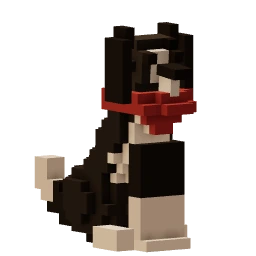
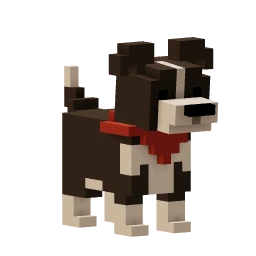
The sheepdog, from Brian's six-view sheet: standing, cell for cell
Claude-Session: https://claude.ai/code/session_011o9Mj2HTe3YpgbKboLBwkK

diff --git a/src/skin/voxel/characters.ts b/src/skin/voxel/characters.ts
@@ -1,6 +1,6 @@
 import { BufferGeometry } from 'three';
 import { buildGeometry } from './mesher';
-import { IRIS, PUPIL, T, WHITE, WOLF_EYE } from './palette';
+import { T, WHITE, WOLF_EYE } from './palette';
 import { shade, shadeRaw } from './paint';
 import type { Tone } from './palette';
 import { box, ellipsoid, Grid, hash3, helix, line, norm, ring, rng, taperedBox } from './primitives';
@@ -112,71 +112,82 @@ export function wolfEyes(): BufferGeometry {
 export interface SheepdogModel { body: Part; head: Part; tail: Part; ears: [Part, Part]; legs: [Part, Part, Part, Part] }
 let dog: SheepdogModel | null = null;
 
-/** Black-and-white collie with a red bandana, ~0.8 m long, built sitting upright; front is +z. */
+/**
+ * The sheepdog, cell for cell from Brian's six-view sheet (2026-11-23): a charcoal collie standing four-square, 7 cells
+ * wide, a white blaze, muzzle, chest, socks and tail tip, a red bandana knotted at the nape with its point on the chest,
+ * ears up and folded over at the tips, and the tail curling up behind. Cells are CHAR (0.04 m); front is +z.
+ */
 export function sheepdogModel(): SheepdogModel {
   if (dog) return dog;
-  const black = tone(T.face, 31), white = tone(T.wool, 33);
-  const above0: (p: Paint) => Paint = (p) => (x, y, z) => (y < 0 ? null : p(x, y, z));
-  const coat: Paint = (x, y, z) => {
-    const Y = y * s, axis = -0.1 + 0.2 * Math.min(1, Math.max(0, (Y - 0.2) / 0.3));
-    return Y > 0.2 && z * s > axis + 0.05 ? white(x, y, z) : black(x, y, z);
+  const COAT = '#484B50', WHITE_FUR = '#ECEBE6', INK = '#080808', MOUTH = '#9C9B97', BANDANA = '#C8321F';
+  const fill = (g: Grid, [x0, x1]: [number, number], [y0, y1]: [number, number], [z0, z1]: [number, number], hex: string) => {
+    for (let x = x0; x <= x1; x++) for (let y = y0; y <= y1; y++) for (let z = z0; z <= z1; z++) g.set(x, y, z, shade(hex));
   };
+  const paint = (g: Grid, x: number, y: number, z: number, hex: string) => { if (g.has(x, y, z)) g.set(x, y, z, shade(hex)); };
 
+  // Body: rows 5 to 11 over the legs, the rump at z 0, the chest at z 11.
   const body = new Grid(s);
-  ellipsoid(body, [0, 0.16, -0.12], [0.16, 0.15, 0.18], above0(coat), 0.06, 35);
-  for (let i = 0; i <= 5; i++) {
-    const t = i / 5;
-    ellipsoid(body, [0, 0.2 + 0.3 * t, -0.1 + 0.2 * t], [0.13 - 0.02 * t, 0.12, 0.12 - 0.02 * t], coat, 0.05, 37);
+  fill(body, [-3, 3], [5, 11], [0, 11], COAT);
+  for (let y = 5; y <= 10; y++) for (let x = -2; x <= 2; x++) { // the white chest, narrower low down, wrapping one cell round
+    if (y <= 7 && Math.abs(x) === 2) continue;
+    paint(body, x, y, 11, WHITE_FUR); paint(body, x, y, 10, WHITE_FUR);
   }
-  belly(body);
-  const red = tone([RED, T.collar[1], T.collar[2]], 39);
-  ring(body, [0, 0.54, 0.1], 0.13, 0.13, 0.06, red);
-  for (let r = 0; r < 4; r++) for (let x = -3 + r; x <= 2 - r; x++) { // the bandana's point on the chest
-    const y = body.i(0.52) - r, z = frontZ(body, x, y);
-    if (z !== null) body.set(x, y, z + 1, red(x, y, z + 1)!);
-  }
+  for (const x of [-3, 3]) for (let y = 7; y <= 9; y++) for (let z = 10; z <= 11; z++) paint(body, x, y, z, WHITE_FUR); // the chest's white, seen from the side
+  for (const x of [-3, 3]) for (let z = 4; z <= 6; z++) paint(body, x, 5, z, WHITE_FUR); // a white flash under the belly
+  for (let z = 4; z <= 6; z++) for (let x = -2; x <= 2; x++) paint(body, x, 5, z, WHITE_FUR);
+  // The bandana: a band round the neck, its knot at the nape and its point down the chest (8, 5, 3 and 1 across).
+  for (let x = -3; x <= 3; x++) body.set(x, 11, 12, shade(BANDANA));
+  for (const x of [-4, 4]) for (let z = 8; z <= 12; z++) body.set(x, 11, z, shade(BANDANA));
+  for (let x = -3; x <= 3; x++) body.set(x, 12, 8, shade(BANDANA));
+  for (const [x, y] of [[-1, 13], [1, 13], [0, 12]] as const) body.set(x, y, 7, shade(BANDANA));
+  for (let y = 10, w = 2; w >= 0; y--, w--) for (let x = -w; x <= w; x++) body.set(x, y, 12, shade(BANDANA));
 
-  const headPivot: V3 = [0, 0.58, 0.1];
+  // Head: rows 12 to 17, z 9 to 14, its top row one in from each side; the white blaze runs up its middle and over.
+  const headPivot: V3 = [0, 12 * s, 11 * s];
   const head = new Grid(s);
-  ellipsoid(head, [0, 0.7, 0.12], [0.11, 0.1, 0.1], (x, y, z) => ((x === -1 || x === 0) && z * s > 0.14 ? white(x, y, z) : black(x, y, z)));
-  box(head, [-0.06, 0.6, 0.14], [0.06, 0.68, 0.32], white, 1); // muzzle, from z 0.14: the chamfer took its back row, which left it off the head
-  step(head, 1);
-  box(head, [-0.04, 0.66, 0.24], [0.04, 0.7, 0.34], tone(T.hoof, 41)); // nose, from z 0.24 (cell 6) so it sits on the muzzle's top
-  onFront(head, head, [[1, 18], [-2, 18]], IRIS);
-  head.set(1, 19, (frontZ(head, 1, 18) ?? 0) - 1, shade(PUPIL));
+  fill(head, [-3, 3], [12, 16], [9, 14], COAT);
+  fill(head, [-2, 2], [17, 17], [9, 14], COAT);
+  for (let y = 15; y <= 17; y++) paint(head, 0, y, 14, WHITE_FUR);
+  for (let z = 11; z <= 14; z++) paint(head, 0, 17, z, WHITE_FUR);
+  for (const x of [-2, 2]) head.set(x, 15, 14, shadeRaw(INK)); // eyes, raw: `shade` lifts them to the palette's floor, the coat's grey
+  // Muzzle: 5 across, the lowest row a cell shorter; the nose 3 across on its top front, the mouth's line under it.
+  fill(head, [-2, 2], [13, 14], [15, 17], WHITE_FUR);
+  fill(head, [-2, 2], [12, 12], [15, 16], WHITE_FUR);
+  for (let x = -1; x <= 1; x++) head.set(x, 14, 18, shadeRaw(INK)); // the nose stands out a cell, so it shows from the side
+  head.set(0, 13, 17, shade(MOUTH));
 
+  // Ears: up from the head's outer columns, folded over outward at the tips.
   const ears = ([-1, 1] as const).map((sx) => {
     const g = new Grid(s);
-    const x0 = sx > 0 ? 0.12 : -0.16;
-    box(g, [x0, 0.58, 0.06], [x0 + 0.04, 0.8, 0.18], black);
-    box(g, [sx > 0 ? 0.08 : -0.12, 0.76, 0.06], [sx > 0 ? 0.12 : -0.08, 0.82, 0.16], black); // fold over the skull
-    step(g, -1);
-    return part(g, [sx * 0.12, 0.8, 0.12]);
+    for (const [x, y] of [[3, 17], [5, 17], [2, 18], [3, 18], [4, 18], [5, 18], [2, 19], [3, 19], [4, 19]] as const) fill(g, [sx * x, sx * x], [y, y], [11, 12], COAT);
+    { const cells = [...g.map.values()]; g.map.clear(); for (const v of cells) g.set(v.x, v.y - 1, v.z, v.c); } // down with the head (below)
+    return part(g, [sx * 3 * s, 16 * s, 11.5 * s]);
   }) as [Part, Part];
 
-  const tailPivot: V3 = [0, 0.1, -0.28];
+  // Tail: three across at the root, stepping up and back, one across at the top with a white tip.
+  const tailPivot: V3 = [0, 10 * s, 0];
   const tail = new Grid(s);
-  for (let i = 0; i <= 6; i++) {
-    const t = i / 6;
-    ellipsoid(tail, [0, 0.08 + 0.14 * t * t, -0.3 - 0.22 * t], [0.05, 0.05, 0.06], t > 0.75 ? white : black, 0.1, 43 + i);
-  }
-  step(tail, -1);
+  fill(tail, [-1, 1], [9, 11], [-1, -1], COAT);
+  fill(tail, [-1, 1], [10, 12], [-2, -2], COAT);
+  fill(tail, [0, 0], [11, 13], [-3, -3], COAT);
+  fill(tail, [0, 0], [12, 13], [-4, -4], COAT);
+  fill(tail, [0, 0], [14, 15], [-4, -4], WHITE_FUR);
 
-  const legPaint: Paint = (x, y, z) => (y * s < 0.2 ? white(x, y, z) : black(x, y, z));
-  const front = ([-0.06, 0.06] as const).map((lx) => {
+  // Legs: 2 by 2, white socks three cells high; the hind legs widen into the haunch.
+  const leg = (x0: number, z0: number, hind: boolean) => {
     const g = new Grid(s);
-    box(g, [lx - 0.04, 0.04, 0.1], [lx + 0.04, 0.4, 0.18], legPaint);
-    step(g, -1); // the leg, before its foot is added
-    box(g, [lx - 0.04, 0, 0.1], [lx + 0.04, 0.04, 0.22], white);
-    return part(g, [lx, 0.4, 0.14]);
-  });
-  const back = ([-0.12, 0.12] as const).map((lx) => {
-    const g = new Grid(s);
-    box(g, [lx - 0.04, 0, 0], [lx + 0.04, 0.06, 0.14], white);
-    return part(g, [lx, 0.06, 0]);
-  });
+    fill(g, [x0, x0 + 1], [0, 2], [z0, z0 + 1], WHITE_FUR);
+    fill(g, [x0, x0 + 1], [0, 0], [z0 + 2, z0 + 2], WHITE_FUR); // the paw, a cell forward
+    fill(g, [x0, x0 + 1], [3, 3], [z0, z0 + 1], COAT);
+    if (hind) fill(g, [x0, x0 + 1], [3, 3], [z0 + 2, z0 + 3], COAT);
+    return part(g, [(x0 + 1) * s, 4 * s, (z0 + 1) * s]);
+  };
+  const legs = [leg(-3, 9, false), leg(2, 9, false), leg(-3, 0, true), leg(2, 0, true)] as [Part, Part, Part, Part];
 
-  dog = { body: part(body, [0, 0.3, 0]), head: part(head, headPivot), tail: part(tail, tailPivot), ears, legs: [front[0], front[1], back[0], back[1]] };
+  // Legs four cells high, as the sheet's stocky dog: everything above them was laid out on five, so it comes down one.
+  for (const g of [body, head, tail]) { const cells = [...g.map.values()]; g.map.clear(); for (const v of cells) g.set(v.x, v.y - 1, v.z, v.c); }
+  const down = (p: V3): V3 => [p[0], p[1] - s, p[2]];
+  dog = { body: part(body, [0, 7 * s, 6 * s]), head: part(head, down(headPivot)), tail: part(tail, down(tailPivot)), ears, legs };
   return dog;
 }
 

diff --git a/src/skin/table/places.tsx b/src/skin/table/places.tsx
@@ -49,10 +49,10 @@ function StreakPosts({ days }: { days: boolean[] }) {
 }
 
 /**
- * The tutorial's guide: a sheepdog sitting by the back door, wagging, pointing at the heap with its nose. Home sits the
+ * The tutorial's guide: a sheepdog standing by the back door, wagging, looking at the heap. Home stands the
  * same dog out in the pasture, minding the flock (`at`, `yaw`, `scale`).
  */
-export function Sheepdog({ reduced, at = [2.25, 0, BARN.maxZ - 1.2], yaw = Math.PI + 0.6, scale = 1 }: { reduced: boolean; at?: readonly [number, number, number]; yaw?: number; scale?: number }) {
+export function Sheepdog({ reduced, at = [2.0, 0, BARN.maxZ - 1.2], yaw = Math.PI + 0.6, scale = 1 }: { reduced: boolean; at?: readonly [number, number, number]; yaw?: number; scale?: number }) {
   const m = useMemo(() => sheepdogModel(), []);
   const mat = useMemo(() => withRoundedEdges(new MeshLambertMaterial({ vertexColors: true })), []);
   const tail = useRef<Mesh>(null);
@@ -62,14 +62,16 @@ export function Sheepdog({ reduced, at = [2.25, 0, BARN.maxZ - 1.2], yaw = Math.
     if (reduced) return;
     const t = clock.elapsedTime;
     if (tail.current) tail.current.rotation.y = Math.sin(t * 9) * 0.5;
-    if (head.current) head.current.rotation.x = 0.15 + Math.sin(t * 0.7) * 0.05;
+    if (head.current) head.current.rotation.x = Math.sin(t * 0.7) * 0.05;
   });
   return (
     <group ref={root} position={[at[0], at[1], at[2]]} rotation={[0, yaw, 0]} scale={scale}>
       <mesh geometry={m.body.geo} position={m.body.pivot} material={mat} castShadow />
-      <mesh ref={head} geometry={withHat(m.head.geo)} position={m.head.pivot} material={mat} castShadow />
+      <mesh ref={head} geometry={withHat(m.head.geo)} position={m.head.pivot} material={mat} castShadow>
+        {/* The ears ride on the head, so they nod with it. */}
+        {m.ears.map((p, i) => <mesh key={i} geometry={p.geo} position={[p.pivot[0] - m.head.pivot[0], p.pivot[1] - m.head.pivot[1], p.pivot[2] - m.head.pivot[2]]} material={mat} />)}
+      </mesh>
       <mesh ref={tail} geometry={m.tail.geo} position={m.tail.pivot} material={mat} castShadow />
-      {m.ears.map((p, i) => <mesh key={i} geometry={p.geo} position={p.pivot} material={mat} />)}
       {m.legs.map((p, i) => <mesh key={i} geometry={p.geo} position={p.pivot} material={mat} castShadow />)}
     </group>
   );

diff --git a/src/skin/scene/placed.ts b/src/skin/scene/placed.ts
@@ -91,8 +91,9 @@ export const FEET = {
   chicken: { across: 0.32, along: 0.24, tall: 0.52 },
 } as const;
 export type Species = keyof typeof FEET;
-/** The sheepdog sits: the rectangle round its body and paws, and the top of its body (`sheepdogModel()`), measured the same day. */
-export const SHEEPDOG_SITS = { across: 0.32, along: 0.64, tall: 0.64 } as const;
+/** The sheepdog stands (Brian's sheet, 2026-11-23): the rectangle round it from ear tip to ear tip and nose to tail, and the
+ *  top of its ears (`sheepdogModel()`). The name is from when it sat. */
+export const SHEEPDOG_SITS = { across: 0.44, along: 0.92, tall: 0.8 } as const;
 /** The sheep at coat level 3 (Home's doorway sheep): the top of `wools.3`. Its hooves are the same. */
 export const SHEEP_TALL_AT_3 = 0.68;
 
@@ -203,10 +204,10 @@ function table(): Placed[] {
   out.push(letterBoard('table', [HEAP[0], BARN.beamY - 0.15, 1.0], BARN.beamY, 'beam', 'the default hook of LetterBoard in table/BarnTable.tsx',
     { file: 'src/skin/table/BarnTable.tsx', text: 'export function LetterBoard({ letter, isTrap, reduced, beamY = BARN.beamY, hook = [HEAP[0], BARN.beamY - 0.15, 1.0] }: {' }));
   out.push({
-    id: 'table:sheepdog', scene: 'table', position: [2.25, 0, BARN.maxZ - 1.2], yaw: Math.PI + 0.6,
+    id: 'table:sheepdog', scene: 'table', position: [2.0, 0, BARN.maxZ - 1.2], yaw: Math.PI + 0.6,
     footprint: [SHEEPDOG_SITS.across, SHEEPDOG_SITS.along], height: SHEEPDOG_SITS.tall, support: 'floor',
     from: 'Sheepdog in table/places.tsx (the tutorial)',
-    copied: { file: 'src/skin/table/places.tsx', text: 'export function Sheepdog({ reduced, at = [2.25, 0, BARN.maxZ - 1.2], yaw = Math.PI + 0.6, scale = 1 }: { reduced: boolean; at?: readonly [number, number, number]; yaw?: number; scale?: number }) {' },
+    copied: { file: 'src/skin/table/places.tsx', text: 'export function Sheepdog({ reduced, at = [2.0, 0, BARN.maxZ - 1.2], yaw = Math.PI + 0.6, scale = 1 }: { reduced: boolean; at?: readonly [number, number, number]; yaw?: number; scale?: number }) {' },
   });
   // The ring, for every table size: each seat at rest, the same seat stepped in on its turn, and the bomb at its hooves.
   const sheep = stands('sheep', SHEEP_SCALE);

diff --git a/src/skin/tour/GuideRender.tsx b/src/skin/tour/GuideRender.tsx
@@ -37,7 +37,7 @@ export default function GuideRender() {
  *  ?mid= ?h= ?ry= ?rx= try other framings without editing this file. */
 const q = new URLSearchParams(location.search);
 const num = (k: string, d: number) => (q.has(k) ? Number(q.get(k)) : d);
-const FRAME = { midY: num('mid', 0.44), height: num('h', 0.96), ry: num('ry', 0.6), rx: num('rx', 0.12) };
+const FRAME = { midY: num('mid', 0.4), height: num('h', 1.0), ry: num('ry', 0.6), rx: num('rx', 0.12) };
 
 function Dog() {
   const m = useMemo(() => sheepdogModel(), []);
@@ -54,7 +54,7 @@ function Dog() {
   useFrame(() => { if (++frames.current === 6) window.__thumbReady = true; });
   return (
     <group position={[0, FRAME.midY, 0]} rotation={[FRAME.rx, FRAME.ry, 0]}>
-      <group position={[0, -FRAME.midY, 0]}>
+      <group position={[0, -FRAME.midY, -0.28]}>{/* the standing dog's middle, nose to tail, turns on the spot */}
         <mesh geometry={m.body.geo} position={m.body.pivot} material={mat} />
         <mesh geometry={m.head.geo} position={m.head.pivot} material={mat} rotation={[0.08, 0, 0]} />
         {m.ears.map((p, i) => <mesh key={i} geometry={p.geo} position={p.pivot} material={mat} />)}

diff --git a/src/skin/table/Farmstead.tsx b/src/skin/table/Farmstead.tsx
@@ -224,7 +224,7 @@ export function Farmstead({ world, reduced, phone, onReady }: { world: World; re
           <Sheep level={2} state={state} reduced={reduced} model={animal === 'sheep' ? undefined : animalModel(animal)} />
         </group>
       ))}
-      {!phone && <Sheepdog reduced={reduced} at={[FLOCK_DOG[0], 0, FLOCK_DOG[1]]} yaw={FLOCK_DOG[2]} scale={1.5} />}
+      {!phone && <Sheepdog reduced={reduced} at={[FLOCK_DOG[0], 0, FLOCK_DOG[1]]} yaw={FLOCK_DOG[2]} scale={1.15} />}
     </>
   );
 }

diff --git a/CHANGELOG.md b/CHANGELOG.md
@@ -5,7 +5,8 @@ All user-visible changes, newest first.
 ## 0.9.7
 
 - Into a game without the wait: the loading screen lifts onto the table easing in from a warm close-up, and the first fuse drops as it settles, instead of a still, empty table for two and a half seconds.
-- Join party's code boxes are five even tiles again (the typing field had come loose and stretched across the card).
+- The sheepdog is rebuilt from Brian's six-view sheet: a charcoal collie standing four-square, white blaze, muzzle, chest, socks and tail tip, a red bandana, folded ears. The tutorial's picture of it is baked again.
+- Join party is laid out like Practice. Its code boxes are five even tiles again (the typing field had come loose and stretched across the card).
 
 ## 0.9.6
 
